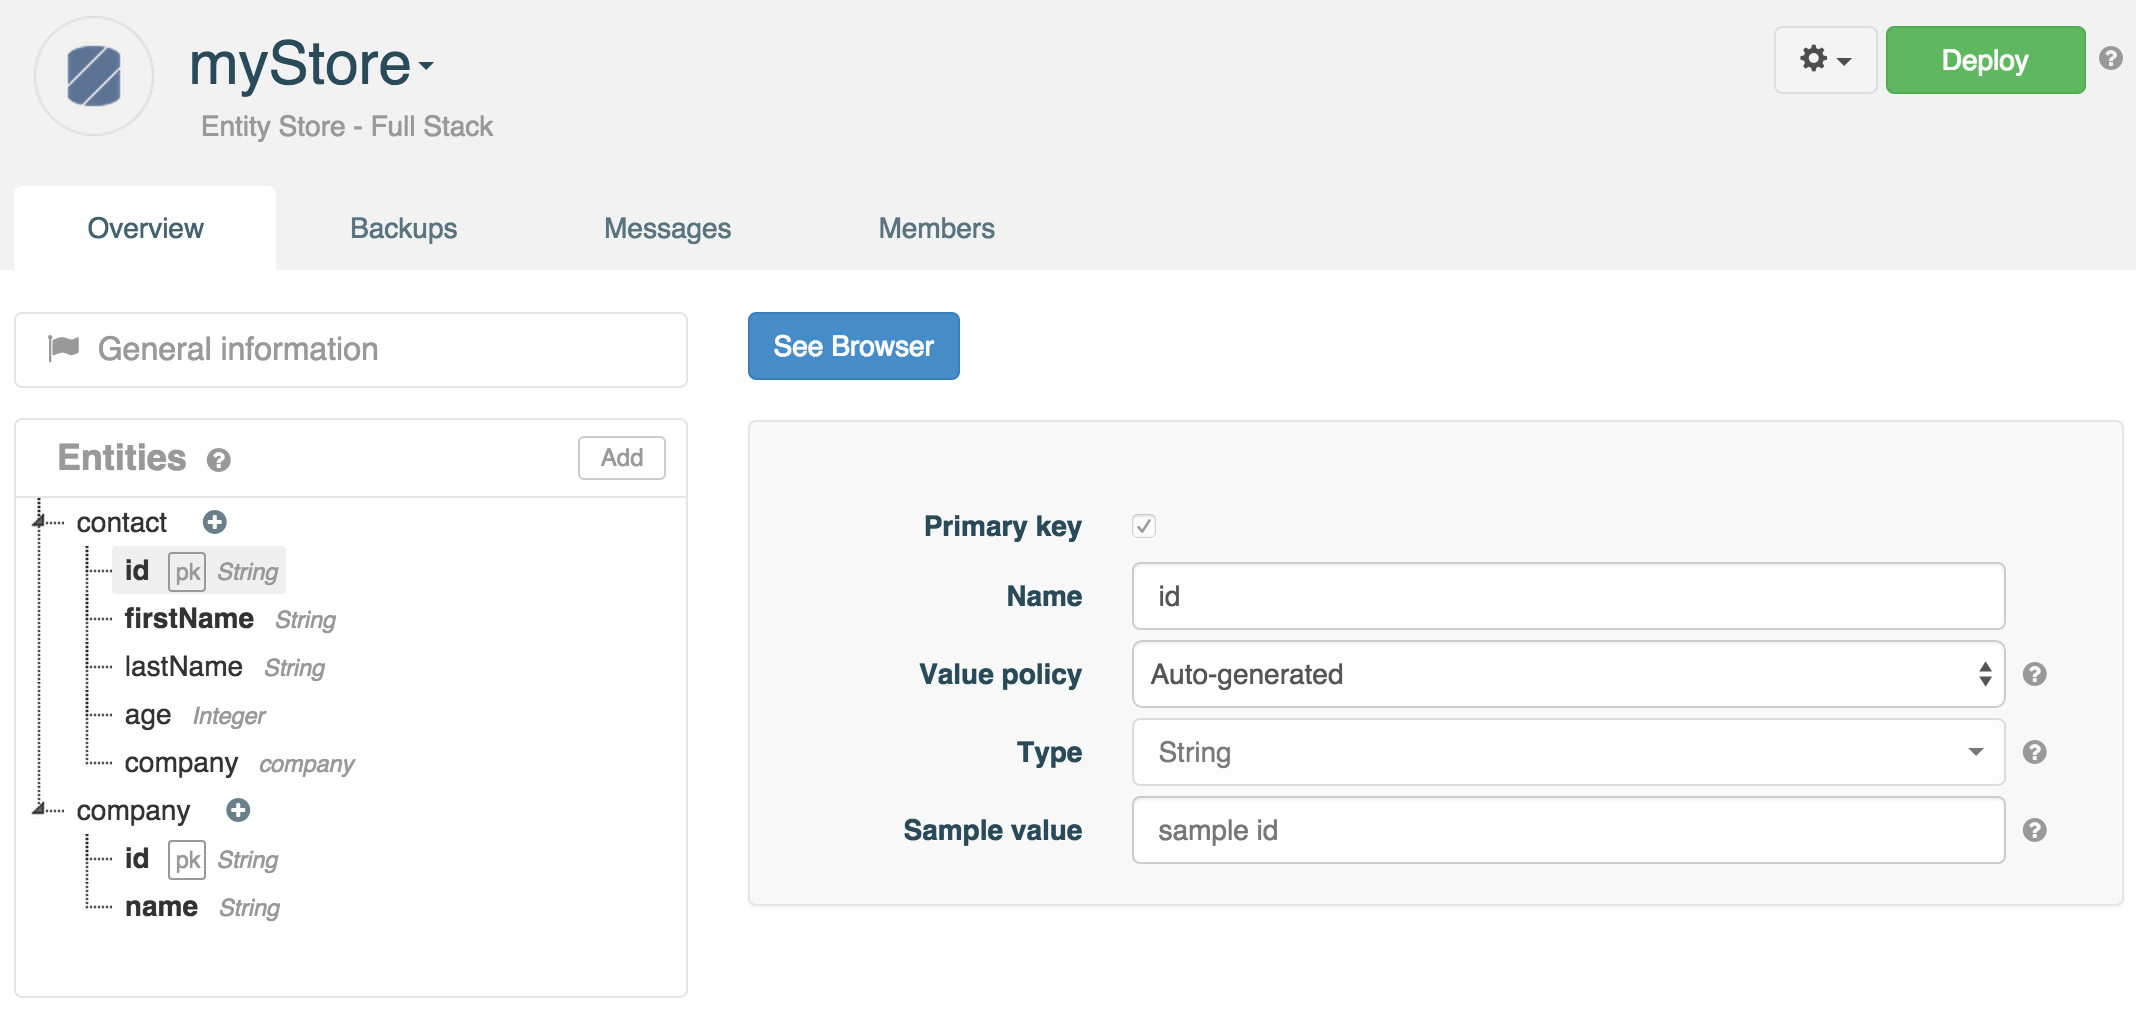
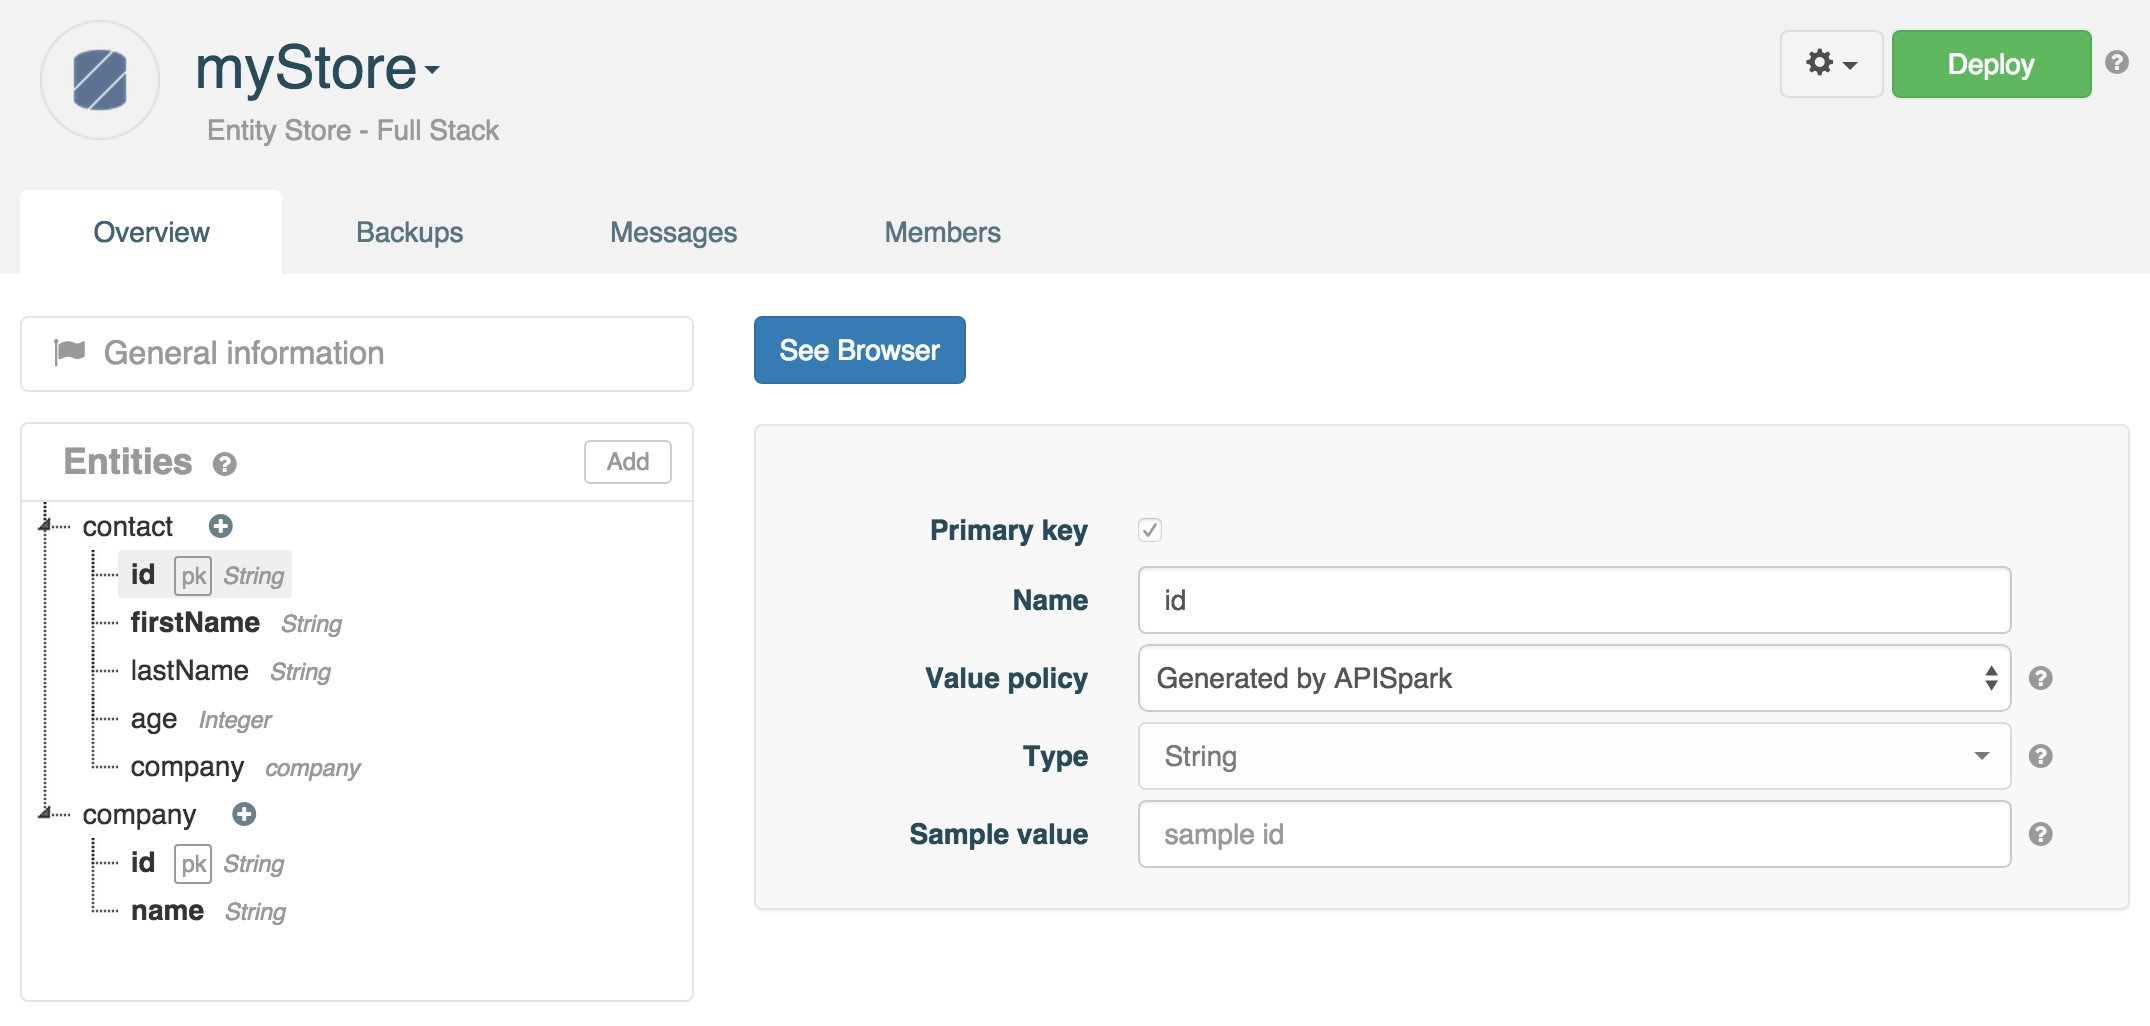
AS_PK policy_Replaced "auto-generated" by "generated by APISpark"

diff --git a/modules/com.restlet/tech-doc/apispark/guide/05_store/02_entity-stores/01_model-data.md b/modules/com.restlet/tech-doc/apispark/guide/05_store/02_entity-stores/01_model-data.md
@@ -22,7 +22,7 @@ Enter a **Name** (required) and a **Description** (optional) and click on the **
 An Entity Store's data model is defined in the store's **Overview** tab.
 
 An Entity Store is composed of entities, which represent types of objects and their properties. Entities can be linked together by defining special properties called relations.
-
+M
 ## Create an entity
 
 In the **Entities** section, click on the **Add** button.  
@@ -50,9 +50,9 @@ Click on the **id** property of an Entity.
 
 The Entity Store supports two different primary key policies.
 
-#### Auto-generated
+#### Generated by APISpark
 
-If the auto-generated **Value policy** is selected, then the *id* property's **Type** is immutable, and its value generated by APISpark everytime a new data element is inserted.
+If **Generated by APISpark** is selected, then the *id* property's **Type** is immutable, and its value generated by APISpark everytime a new data element is inserted.
 
 #### Specified at creation
 
